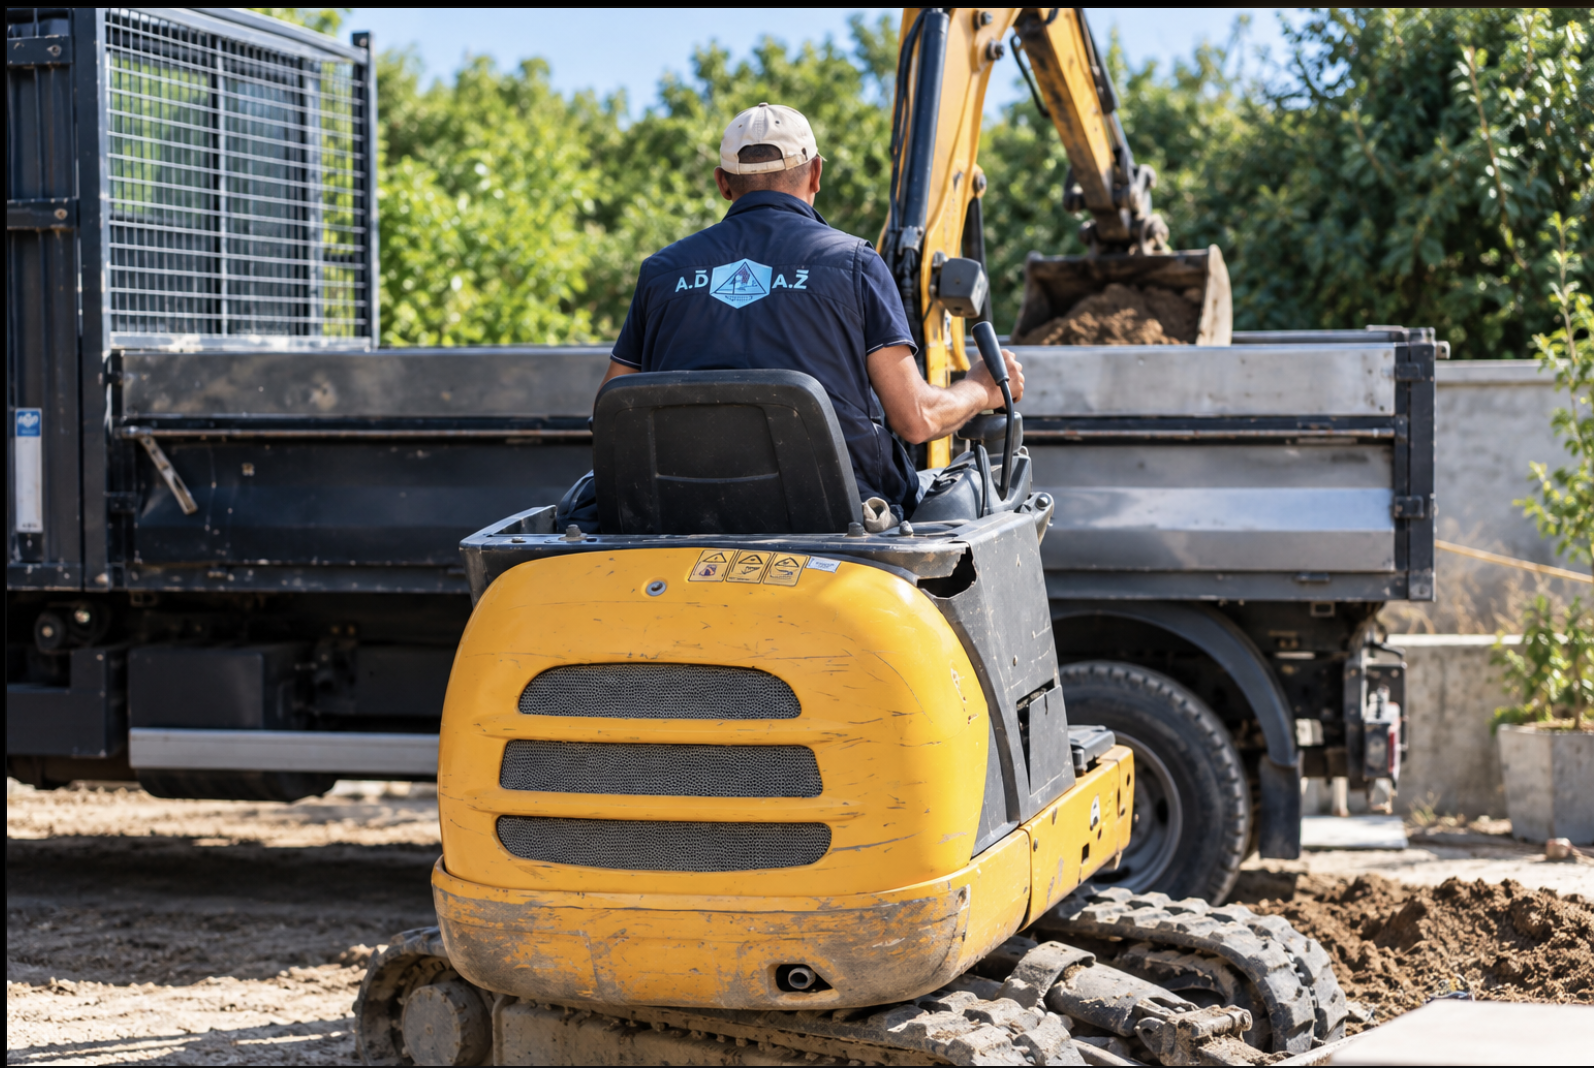
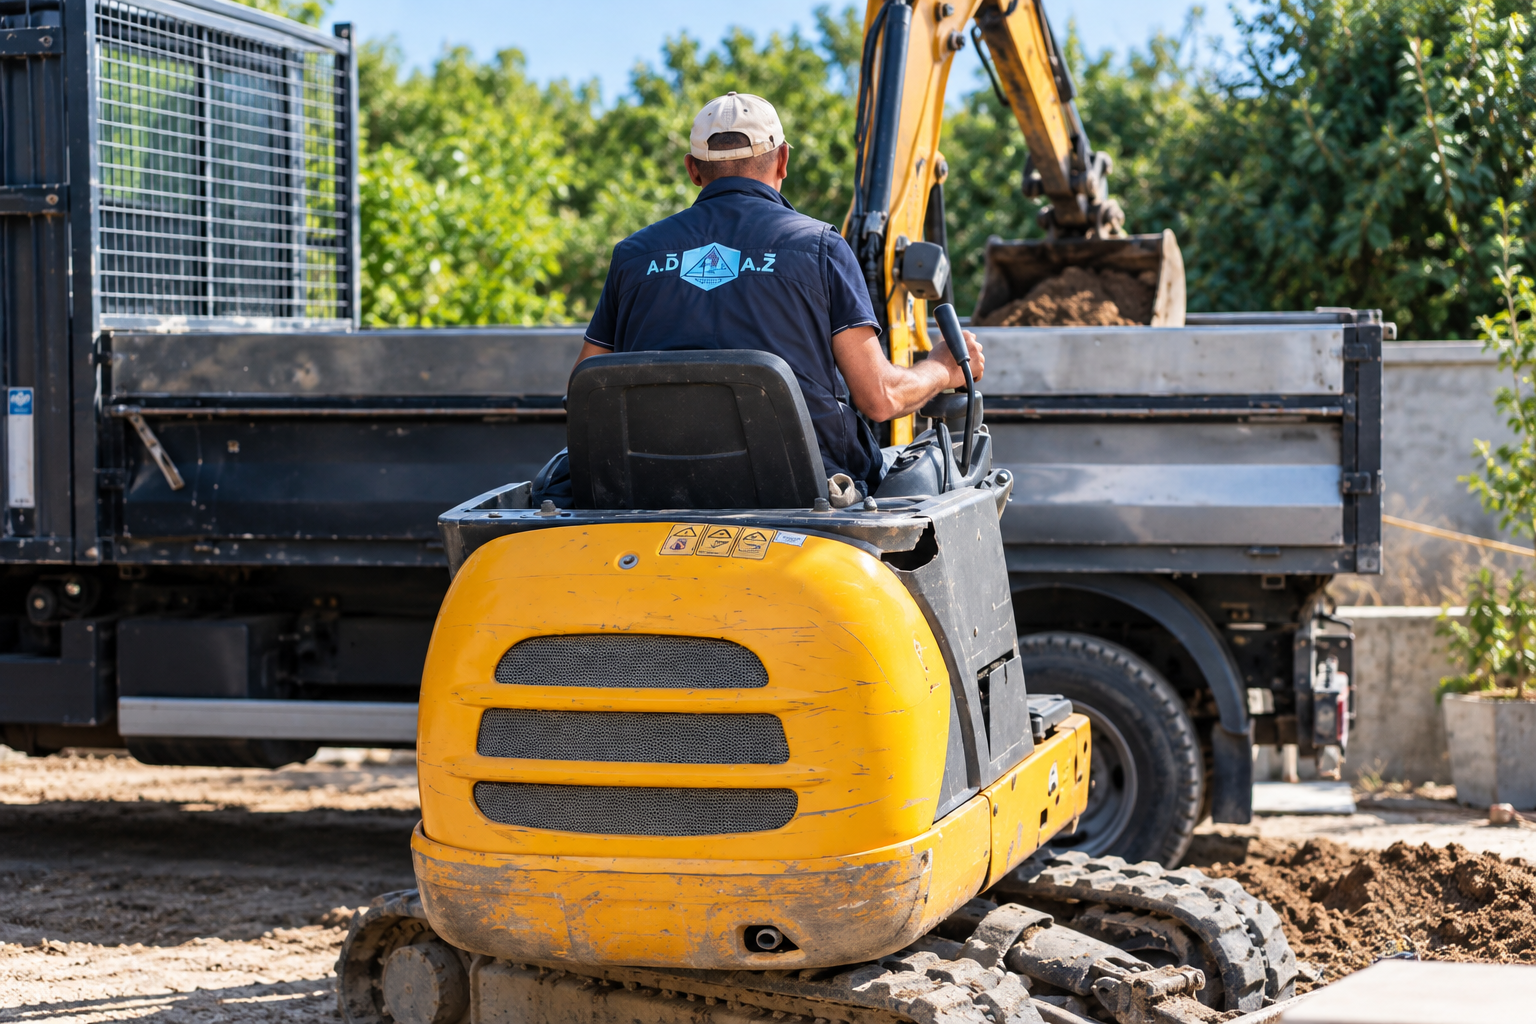
fix: refine masonry photo framing and preserve natural lighting

diff --git a/styles.css b/styles.css
@@ -2300,6 +2300,14 @@ body[data-page="services"] .project-card .media-top::after {
   z-index: 1;
 }
 
+body[data-page="services"] #service-maconnerie .media-top img {
+  object-position: 52% center;
+}
+
+body[data-page="services"] #service-maconnerie .media-top::after {
+  background: none;
+}
+
 .product-card:hover .media-top img,
 .image-frame:hover img {
   transform: scale(1.04);
